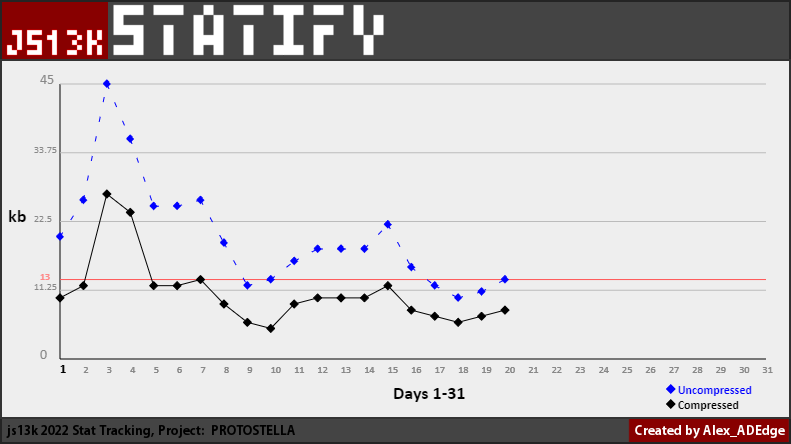
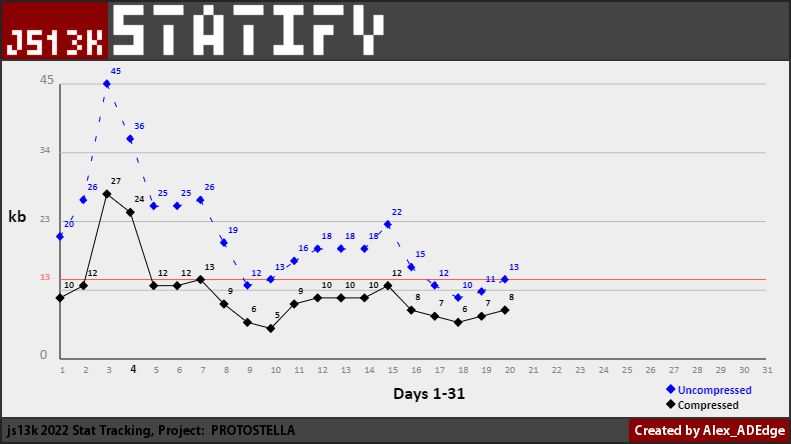
updated example image, and set back to example data

diff --git a/src/functions.js b/src/functions.js
@@ -19,13 +19,13 @@ var GRAPH_HEIGHT = GRAPH_BOTTOM - GRAPH_TOP;
 var GRAPH_WIDTH = GRAPH_RIGHT - GRAPH_LEFT;
 
 //Setup test/demo data
-// var dataArr = [ 20, 26, 45, 36, 25, 25, 26, 19, 12, 13, 16, 18, 18, 18, 22, 15, 12, 10, 11, 13 ];
-// var dataArrOp = [ 10, 12, 27, 24, 12, 12, 13, 9, 6, 5, 9, 10, 10, 10, 12, 8 , 7, 6, 7, 8 ];
+var dataArr = [ 20, 26, 45, 36, 25, 25, 26, 19, 12, 13, 16, 18, 18, 18, 22, 15, 12, 10, 11, 13 ];
+var dataArrOp = [ 10, 12, 27, 24, 12, 12, 13, 9, 6, 5, 9, 10, 10, 10, 12, 8 , 7, 6, 7, 8 ];
 
 //Setup current user data
 //TODO - generate these arrays automatically via batch script, manually input for now
-var dataArr = [ 45, 51, 23, 24];
-var dataArrOp = [ 11, 12, 7, 7 ];
+// var dataArr = [ 45, 51, 23, 24];
+// var dataArrOp = [ 11, 12, 7, 7 ];
 //other data required
 var arrayLen = 31; //set manually here to 31 days //dataArr.length;  
 var largestElement = 0;
